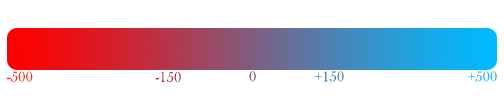
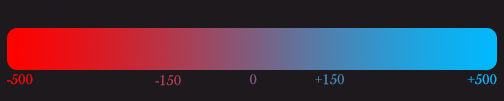
Added Appendix B update

diff --git a/assets/css/style.css b/assets/css/style.css
@@ -198,6 +198,9 @@ body {
 }
 
 .chapter .img-center img {
+  display: block;
+  margin-left: auto;
+  margin-right: auto;
   max-width: 100%;
   height: auto;
 }

diff --git a/_chapters/AppendixB.md b/_chapters/AppendixB.md
@@ -15,7 +15,7 @@ Deities' nourishment on the power of belief granted to them by their followers m
 The Karma System is part of your character and it tracks the aforementioned behaviors on a numerical scale which may affect how certain magical effects behave within other in-world consequences.
 
 <div class="img-center" markdown="0">
-<img src="{{ '/assets/images/karma.png' | relative_url }}" alt="Karma">
+<img src="{{ '/assets/images/karma.png' | relative_url }}" alt="Karma" >
 </div>
 
 A dweller's Karma whose value exceeds positive 150 becomes **Virtue**{: .positive-karma} and if the value exceeds negative 150, it becomes **Sin**{: .negative-karma}. If your Karma value sits between both aforementioned boundaries, then your Karma is **Neutral**{: .neutral-karma}.
@@ -26,9 +26,9 @@ Below is a chart with a number of example behaviors and what their associated va
 
 | Behavior | Karma Value |
 |---|---|
-| Donating to the destitute | +5 |
-| Saving an innocent life | +15 |
-| Lying for personal gain | -10 |
-| Theft | -20 |
-| Robbery | -30 |
-| Murder of an innocent | -50 |
+| Donating to the destitute | +5{: .positive-karma} |
+| Saving an innocent life | +15{: .positive-karma} |
+| Lying for personal gain | -10{: .negative-karma} |
+| Theft | -20{: .negative-karma} |
+| Robbery | -30{: .negative-karma} |
+| Murder of an innocent | -50{: .negative-karma} |
